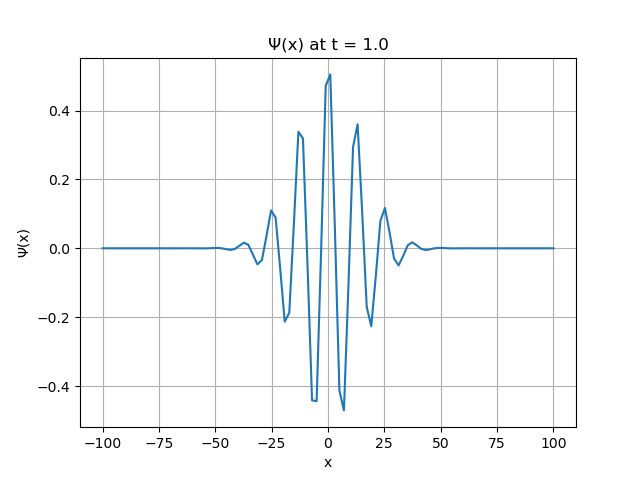
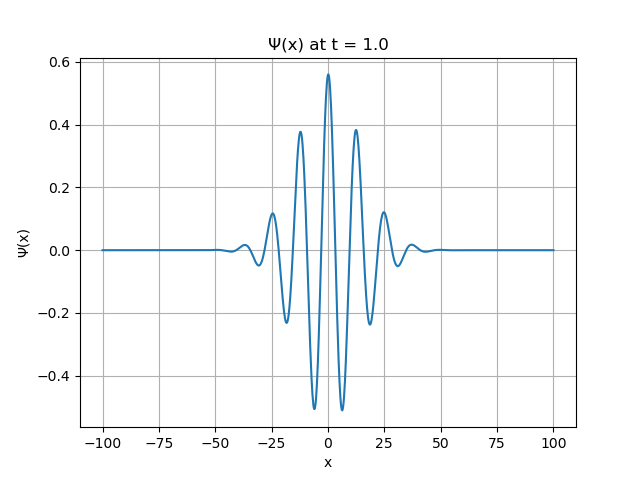
Added Comments, Polished Code
Added comments throughout the code, tidied up the code

diff --git a/TurkstraMichael_Project4.py b/TurkstraMichael_Project4.py
@@ -4,140 +4,147 @@ import matplotlib.pyplot as plt
 from celluloid import Camera
 from numpy import linalg as LA
 
+h_bar, m = 1, 1/2                                                                                                   ## Initializing h_bar and m to values outlined in project description
 
-h_bar, m = 1, 1/2
-
-def sch_init_cond(x_points, sig_0, k_0, x_0):
+def sch_init_cond(x_points, sig_0, k_0, x_0):                                                                       ## Similar to lab 10
     '''
+    Function to apply gaussian initial conditions to inputted array using equation 9.42 from the textbook
+    Args: x_points grid spacing, sig_0 standard deviation, k_0 wave number, x_0 center
+    Returns: 1d array holding initial conditions applied to x_points
     '''
-    init_cond = (1/np.sqrt(sig_0)*np.sqrt(np.pi))*np.exp((k_0*x_points*1j) - ((x_points-x_0)**2)/((2*sig_0)**2))
-    return init_cond
+    init_cond = (1/np.sqrt(sig_0)*np.sqrt(np.pi))*np.exp((k_0*x_points*1j) - ((x_points-x_0)**2)/((2*sig_0)**2))    ## Calculating initial conditions array using equation 9.42
+    return init_cond                                                                                                ## Returning initial conditions array
 
-def make_tridiagonal(Nspace, b, d, a):                                                                               ## From Lab 10
+def make_tridiagonal(Nspace, b, d, a):                                                                              ## From Lab 10
     '''
     Function to make matrix following format from lab outline
     Args: Takes in the L length of matrix to make, b value of elements on diagonal-1, d value of elements on diagonal, a value of elements on diagonal+1
     Returns: Matrix that was made
     '''
-    D = d*np.identity(Nspace)+a*np.diagflat(np.ones(Nspace-1),1)+b*np.diagflat(np.ones(Nspace-1),-1)                       ## Equation for making required matrix, d*diagonal + b*diagonal-1, + a*diagonal+1, takes insperation from “lecture10a-FTCS-Diffusion_mtx.ipynb”
-    D[Nspace-1, 0], D[0, Nspace-1] = a, b
-    return D                                                                                                    ## Return matrix
+    D = d*np.identity(Nspace)+a*np.diagflat(np.ones(Nspace-1),1)+b*np.diagflat(np.ones(Nspace-1),-1)                ## Equation for making required matrix, d*diagonal + b*diagonal-1, + a*diagonal+1, takes insperation from “lecture10a-FTCS-Diffusion_mtx.ipynb”
+    D[Nspace-1, 0], D[0, Nspace-1] = a, b                                                                           ## Setting periodic boundary conditions
+    return D                                                                                                        ## Return matrix
 
 def check_stability(input_2d_array):
     '''
-    Function to calculate the maximum eigen value of a matrix input, and notify user if input will give stable results.
-    Args: input_2d_array matrix to calculate eigenvalues and eigenvectors
-    Returns: maximum eigen value
+    Function to calculate eigenvalues of the input matrix, check if any eigen values are unstable and notify user if input will give stable results.
+    Args: input_2d_array matrix to calculate eigenvalues
+    Returns: void
     '''
-    stable = True                                                                                               ## Initialize boolean for tracking if stable or not
-    eigenvalues = LA.eigvals(input_2d_array)                                                                    ## Using linalg.eig to calculate eigen values of input matrix
-    for i in range(len(eigenvalues)):                                                                           ## Loop through the eigenvalues
-        if (np.real(eigenvalues[i]) > 0):                                                                       ## Check if real part of current eigenvalue is negative
-            stable = False                                                                                      ## If so update stable flag
-    if (stable):                                                                                                ## Check if stable flag is still stable (i.e. no unstable eigenvalues)
-        print("The FTCS simulation is expected to be stable\n")                                                 ## Notify user of stability
+    stable = True                                                                                                   ## Initialize boolean for tracking if stable or not
+    eigenvalues = LA.eigvals(input_2d_array)                                                                        ## Using linalg.eig to calculate eigenvalues of input matrix
+    for i in range(len(eigenvalues)):                                                                               ## Loop through the eigenvalues
+        if (np.real(eigenvalues[i]) > 0):                                                                           ## Check if real part of current eigenvalue is negative
+            stable = False                                                                                          ## If so update stable flag
+    if (stable):                                                                                                    ## Check if stable flag is still stable (i.e. no unstable eigenvalues)
+        print("The FTCS simulation is expected to be stable\n")                                                     ## Notify user of stability
     else:
-        print("The FTCS simulation is not expected to be stable\n")                                             ## Notify user of instability
+        print("The FTCS simulation is not expected to be stable\n")                                                 ## Notify user of instability
 
 
 def sch_eqn(nspace, ntime, tau, method='ftcs', length=200, potential=[], wparam=[10, 0, 0.5]):
     '''
-    
+    Function to solve the one dimentional, time dependant, Schrodinger equation using the FTCS or Crank-Nicholson method. 
+    Args: nspace integer determining the number of spacial divisions, ntime integer determining the number of time divisions to simulate, tau time step, method string to select which
+    method to use, length the length of the 1d simulation, potential array holding indexes for nspace where potential barrier will be located, wparam array of size 3 to hold inputs to
+    sch_init_cond to get inital conditions
+    Returns: psi 2d numpy array of size (nspace, ntime) holding the value of phi at every point in space and time simulated (i.e. Ψ(x,t)), x_points the spacial grid being simulated,
+    t_points the time steps being simulated, prob 2d numpy array of size (nspace, ntime) holding the particle probability density at every point in space and time simulated.
     '''
-    sig0, x0, k0 = wparam
-    h = length/nspace
-    x_points = np.linspace(-length/2, length/2, nspace)
-    t_points = np.arange(0, ntime*tau, tau)
+    sig0, x0, k0 = wparam                                                                                           ## Unpacking initial condition parameters from wparam
+    h = length/nspace                                                                                               ## Calculating grid spacing 
+    x_points = np.linspace(-length/2, length/2, nspace)                                                             ## Initializing x_points the spacial grid being simulated
+    t_points = np.arange(0, ntime*tau, tau)                                                                         ## Initializing t_points the time steps being simulated
     
-    V = np.zeros(nspace)
-    V[potential] = 1
+    V = np.zeros(nspace)                                                                                            ## Initializing array to hold track hold potential barriers along the x axis  
+    V[potential] = 1                                                                                                ## Setting potential barrier at inputted index's
 
-    init_cond = sch_init_cond(x_points, sig0, k0, x0)
+    init_cond = sch_init_cond(x_points, sig0, k0, x0)                                                               ## Calling sch_init_cond with inputted parameters to get inital conditions
 
-    psi = np.zeros((nspace, ntime), dtype=np.complex128)
-    psi[:, 0] = init_cond
+    psi = np.zeros((nspace, ntime), dtype=np.complex128)                                                            ## Initializing 2d numpy array to hold phi at every x and time point
+    psi[:, 0] = init_cond                                                                                           ## Setting psi at time = 0 to initial conditions
 
-    prob = np.zeros((nspace, ntime), dtype=np.complex128)
-    prob[:, 0] = (np.abs(psi[:, 0])**2)*h*tau
-    #prob[:, 0] = np.conjugate(psi[:, 0]).dot(psi[:, 0])*h*tau
+    prob = np.zeros((nspace, ntime), dtype=np.complex128)                                                           ## Initializing 2d numpy array to hold particle probability density at every x and time point
+    prob[:, 0] = (np.abs(psi[:, 0])**2)*h*tau                                                                       ## Calculating particle probability density for t = 0, with initial conditions
 
-    #H = make_tridiagonal(nspace, (-(h_bar**2)/(2*m*(h**2))), (2*(h_bar**2)/(2*m*(h**2)))+V, (-(h_bar**2)/(2*m*(h**2))))
+    H = -((h_bar**2)/2*m)*make_tridiagonal(nspace, 1/(h**2), -2/(h**2), 1/(h**2)) + V*np.identity(nspace)           ## Defining the H matrix from 9.31 from the textbook
 
-    H = -((h_bar**2)/2*m)*make_tridiagonal(nspace, 1/(h**2), -2/(h**2), 1/(h**2)) + V*np.identity(nspace)
+    if (method == 'ftcs'):                                                                                          ## Check if user inputted FTCS method
+        A = make_tridiagonal(nspace, 0, 1, 0) - (1j*tau/h_bar)*H                                                    ## Make A matrix using equation 9.32 from the textbook
+        check_stability(A)                                                                                          ## Calling check_stability to notify user of stability
+        for i in range(ntime-1):                                                                                    ## Looping through the time points
+            psi[:, i+1] = A.dot(psi[:, i])                                                                          ## Calculating psi at n+1 using FTCS method
+            prob[:, i+1] = (np.abs(psi[:, i+1])**2)*h*tau                                                           ## Calculating particle probability density using equation from project outline
+    elif (method == 'crank'):                                                                                       ## Check if user inputted Crank-Nicholson method
+        A = nplinalg.inv(make_tridiagonal(nspace, 0, 1, 0) + (1j*tau/(2*h_bar))*H).dot(make_tridiagonal(nspace, 0, 1, 0) - (1j*tau/(2*h_bar))*H) ## Calculate A matrix using equation 9.40 from the textbook
+        for i in range(ntime-1):                                                                                    ## Looping through the time points
+            psi[:, i+1] = A.dot(psi[:, i])                                                                          ## Calclulating psi at n+1 using Crank-Nicholson method
+            prob[:, i+1] = (np.abs(psi[:, i+1])**2)*h*tau                                                           ## Calculating particle probability density using equation from project outline
+    else:                                                                                                           ## Else not recognized method
+        print("Invalid Method\n")                                                                                   ## Notify user of invalid method inputted
 
-    if (method == 'ftcs'):
-        A = make_tridiagonal(nspace, 0, 1, 0) - (1j*tau/h_bar)*H
-        check_stability(A)
-        for i in range(ntime-1):
-            psi[:, i+1] = A.dot(psi[:, i])
-            prob[:, i+1] = (np.abs(psi[:, i+1])**2)*h*tau
-            #prob[:, i+1] = np.conjugate(psi[:, i+1]).dot(psi[:, i+1])*h*tau
-    elif (method == 'crank'):
-        A = nplinalg.inv(make_tridiagonal(nspace, 0, 1, 0) + (1j*tau/(2*h_bar))*H).dot(make_tridiagonal(nspace, 0, 1, 0) - (1j*tau/(2*h_bar))*H)
-        for i in range(ntime-1):
-            psi[:, i+1] = A.dot(psi[:, i])
-            prob[:, i+1] = (np.abs(psi[:, i+1])**2)*h*tau
-            #prob[:, i+1] = np.conjugate(psi[:, i+1]).dot(psi[:, i+1])*h*tau
-    else:
-        print("Invalid Method\n")
-    
-    #prob = psi.dot(np.conjugate(psi))
-
-    return psi, x_points, t_points, prob
+    return psi, x_points, t_points, prob                                                                            ## Returning psi matrix, x_points array, t_points array, prob matrix
 
 def sch_animate(data, x_points, t_points, type):
     '''
+    Function to visualize data from sch_eqn using an animation showing either psi or prob of x at every time point
+    Args: data 2d numpy array can be psi or prob, x_points data's spacial grid, t_points data's time grid, type string to determine type of data
+    Returns: void
     '''
-    fig = plt.figure()
-    camera = Camera(fig)
-    if type == 'psi':
+    fig = plt.figure()                                                                                              ## Initializing figure
+    camera = Camera(fig)                                                                                            ## Initializting camera to figure
+    if type == 'psi':                                                                                               ## Checking if type is psi
         plt.title("Ψ(x) Animation")
-        plt.xlabel("x")
+        plt.xlabel("x")                                                                                             ## Labeling plot for psi animation
         plt.ylabel("Ψ(x)")
-        for i in range(0, len(t_points), 5):
-            plt.plot(x_points, np.real(data[:, i]), color='blue', label=f"Schrodinger Eq at t = {t_points[i]}")
-            camera.snap()                                                                                   
-    elif type == 'prob':
+        for i in range(0, len(t_points), 5):                                                                        ## Looping through every 5 time points
+            plt.plot(x_points, np.real(data[:, i]), color='blue', label=f"Schrodinger Eq at t = {t_points[i]}")     ## Plotting data at current time point
+            camera.snap()                                                                                           ## Capturing frame
+    elif type == 'prob':                                                                                            ## Checking if type is prob
         plt.title("Ψ*Ψ(x) Animation")
-        plt.xlabel("x")
+        plt.xlabel("x")                                                                                             ## Labeling plot for prob animation
         plt.ylabel("Ψ*Ψ(x)")
-        for i in range(0, len(t_points), 5):
-            plt.plot(x_points, np.real(data[:, i]), color='blue')
-            camera.snap()
-    animation = camera.animate()                                                      
-    animation.save(f"TurkstraMichael_Project4_Animation_{type}.mp4",fps=60)                               
+        for i in range(0, len(t_points), 5):                                                                        ## Looping through every 5 time points
+            plt.plot(x_points, np.real(data[:, i]), color='blue')                                                   ## Plotting data at current time point
+            camera.snap()                                                                                           ## Capturing frame
+    animation = camera.animate()                                                                                    ## Compiling frames together
+    animation.save(f"TurkstraMichael_Project4_Animation_{type}.mp4",fps=60)                                         ## Saving animation
     
-def sch_plot(data, x_points, t_points, plot, save, time):
+def sch_plot(data, x_points, t_points, type, save, time):
     '''
+    Funtion to plot either psi or prob data from sch_eqn at a time index.
+    Args: data 2d numpy array can be psi or prob, x_points array to hold spacial grid of data, t_points array to hold time grid of data, type string to determine type of data
+    Returns: void
     '''
-    plt.figure()
-    if plot == 'psi':
-        plt.plot(x_points, np.real(data[:, time]))
+    plt.figure()                                                                                                    ## Initializing Figure
+    if type == 'psi':                                                                                               ## Checking if the inputted type is psi
+        plt.plot(x_points, np.real(data[:, time]))                                                                  ## Plotting data at time index
         plt.title(f"Ψ(x) at t = {t_points[time]}")
-        plt.xlabel("x")
+        plt.xlabel("x")                                                                                             ## Labeling psi plot
         plt.ylabel("Ψ(x)")
-    elif plot == 'prob':
-        plt.plot(x_points, np.real(data[:, time]))
+    elif type == 'prob':                                                                                            ## Checking if the inputted type is prob
+        plt.plot(x_points, np.real(data[:, time]))                                                                  ## Plotting data at time index
         plt.title(f"Ψ*Ψ(x) at t = {t_points[time]}")
-        plt.xlabel("x")
+        plt.xlabel("x")                                                                                             ## Labeling prob plot
         plt.ylabel("Ψ*Ψ(x)")
+    else:                                                                                                           ## Else unrecognized type
+        print("Invalid plot inputed\n")                                                                             ## Notify user
+    plt.grid()                                                                                                      ## Adding grid to plot
+    if save:                                                                                                        ## Checking is user requested plot to be saved
+        plt.savefig(f'TurkstraMichael_Project4_Fig_{type}.png')                                                     ## Saving plot
     else:
-        print("Invalid plot inputed\n")
-    plt.grid()
-    if save:
-        plt.savefig(f'TurkstraMichael_Project4_Fig_{plot}.png')
-    else:
-        plt.show()
+        plt.show()                                                                                                  ## Showing plot
 
 def main():
     '''
+    Function to set parameters and call functions.
     '''
-    nspace, ntime, tau = 1000, 10000, 0.1
-    psi, x_grid, t_grid, prob = sch_eqn(nspace, ntime, tau, 'crank', potential=[800])
-    #sch_plot(psi, x_grid, t_grid, 'psi', True, 10)
-    #sch_plot(prob, x_grid, t_grid, 'prob', True, 99)
-    #sch_animate(psi, x_grid, t_grid, 'psi')
-    #sch_animate(prob, x_grid, t_grid, 'prob')
+    nspace, ntime, tau = 1000, 10000, 0.1                                                                           ## Arbitrary parameter values for testing
+    psi, x_grid, t_grid, prob = sch_eqn(nspace, ntime, tau, 'crank', potential=[800])                               ## Calling sch_eqn to solve 1 dimentional, time dependant, Schrodinger Equation
+    sch_plot(psi, x_grid, t_grid, 'psi', True, 10)                                                                  ## Calling sch_plot to plot psi data
+    sch_plot(prob, x_grid, t_grid, 'prob', True, 99)                                                                ## Calling sch_plot to plot prob data
+    sch_animate(psi, x_grid, t_grid, 'psi')                                                                         ## Calling sch_animate to make animation of psi data
+    sch_animate(prob, x_grid, t_grid, 'prob')                                                                       ## Calling sch_animate to make animation of prob data
 
 if __name__ == '__main__':
     main()

diff --git a/Tests/proj4_test_sch_eqn.py b/Tests/proj4_test_sch_eqn.py
@@ -1,0 +1,36 @@
+import numpy as np
+import matplotlib.pyplot as plt
+import TurkstraMichael_Project4 as proj4
+
+nspace, ntime, tau = 1000, 1000, 0.1
+
+#psi1, x_grid1, t_grid1, prob1 = proj4.sch_eqn(nspace, ntime, tau)
+#psi2, x_grid2, t_grid2, prob2 = proj4.sch_eqn(nspace, ntime, tau, 'ftcs', 200, [], [10, 0, 0.5])
+#psi3, x_grid3, t_grid3, prob3 = proj4.sch_eqn(nspace, ntime, tau, 'ftcs', 200, [4], [10, 0, 0.5])
+#psi4, x_grid4, t_grid4, prob4 = proj4.sch_eqn(nspace, ntime, tau, 'crank', 200, [4], [10, 0, 0.5])
+#psi5, x_grid5, t_grid5, prob5 = proj4.sch_eqn(nspace, ntime, tau, 'crank', 200, [4], [5, 0, 1])
+
+#proj4.sch_animate(psi2, x_grid2, t_grid2, 'psi')
+#proj4.sch_animate(prob2, x_grid2, t_grid2, 'prob')
+
+#proj4.sch_animate(psi4, x_grid4, t_grid4, 'psi')
+#proj4.sch_animate(prob4, x_grid4, t_grid4, 'prob')
+
+#proj4.sch_animate(psi5, x_grid5, t_grid5, 'psi')
+#proj4.sch_animate(prob5, x_grid5, t_grid5, 'prob')
+
+nspace, ntime, tau = 100, 100, 0.1
+psi, x_grid, t_grid, prob = proj4.sch_eqn(nspace, ntime, tau, 'ftcs', 200, [], [10, 0, 0.5])
+
+total_prob = []
+for i in range(len(t_grid)):
+    total_prob.append(np.sum(prob[:, i]))
+
+plt.figure()
+plt.plot(t_grid, total_prob)
+plt.title("Total Probability vs Time")
+plt.xlabel("Time")
+plt.ylabel("Total Probaility")
+plt.ylim(0, 1)
+plt.grid()
+plt.show()
